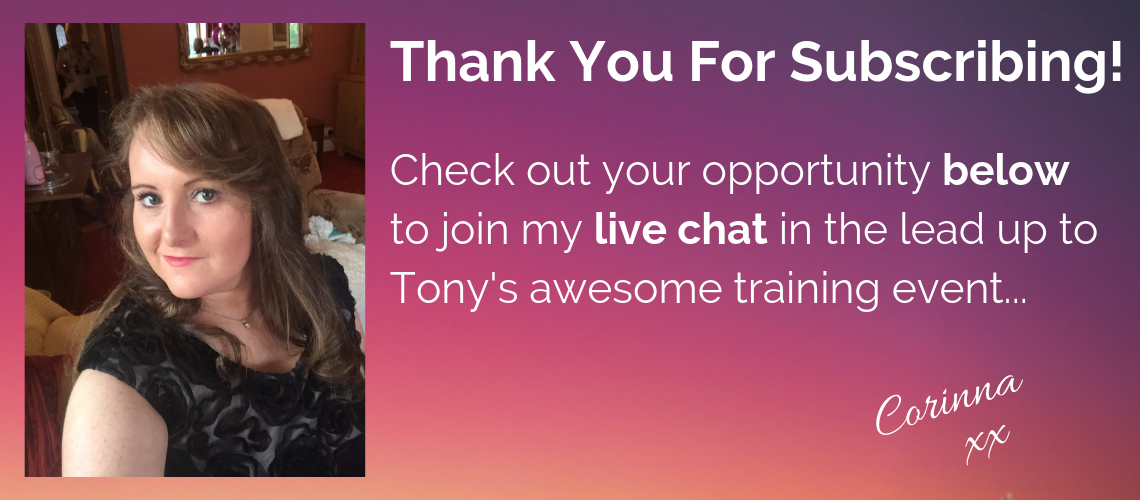
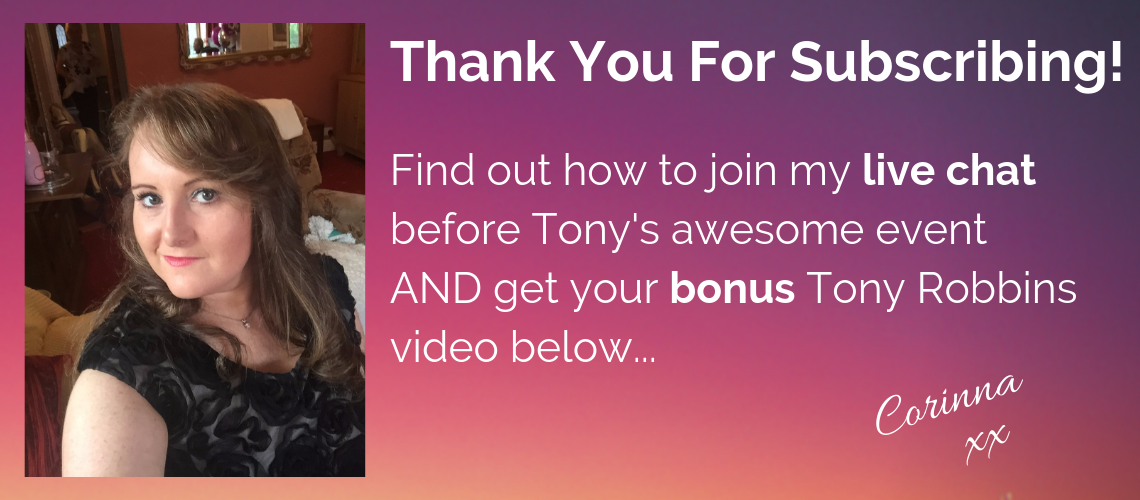
Updates to KBB thank you page (shown after double opt-in) to include bonus video and adjustment to header image

diff --git a/kbb/thanks.md b/kbb/thanks.md
@@ -34,9 +34,14 @@ This free training is in the **middle of the night** for many (1am UK time, 2am 
 </a>
 <br>
 
-### 3. Take a look around Inspiring Life Design while you're here
+### 3. Grab your **BONUS** welcome video
+<a href="/kbb/bonus" target="_blank">
+  <img src="/i/2019/kbb/YT-bonus.png" alt="Link to bonus video about getting paid to impact people's lives within the self education industry">
+</a>
+<br>
 
-<center>
+### 4. Take a look around Inspiring Life Design while you're here
+
 <table width="350" style="margin: 5px 5px 5px 5px;">
 <tr>
 <td>
@@ -63,9 +68,8 @@ This free training is in the **middle of the night** for many (1am UK time, 2am 
 </td>
 </tr>
 </table>
-</center>
 
-### 4. See You On Tuesday April 30th - hopefully on the Facebook Live chat, or if not, on the Live Tony Robbins training call...
+### 5. See You On Tuesday April 30th - hopefully on the Facebook Live chat, or if not, on the Live Tony Robbins training call...
 
 ***
 
